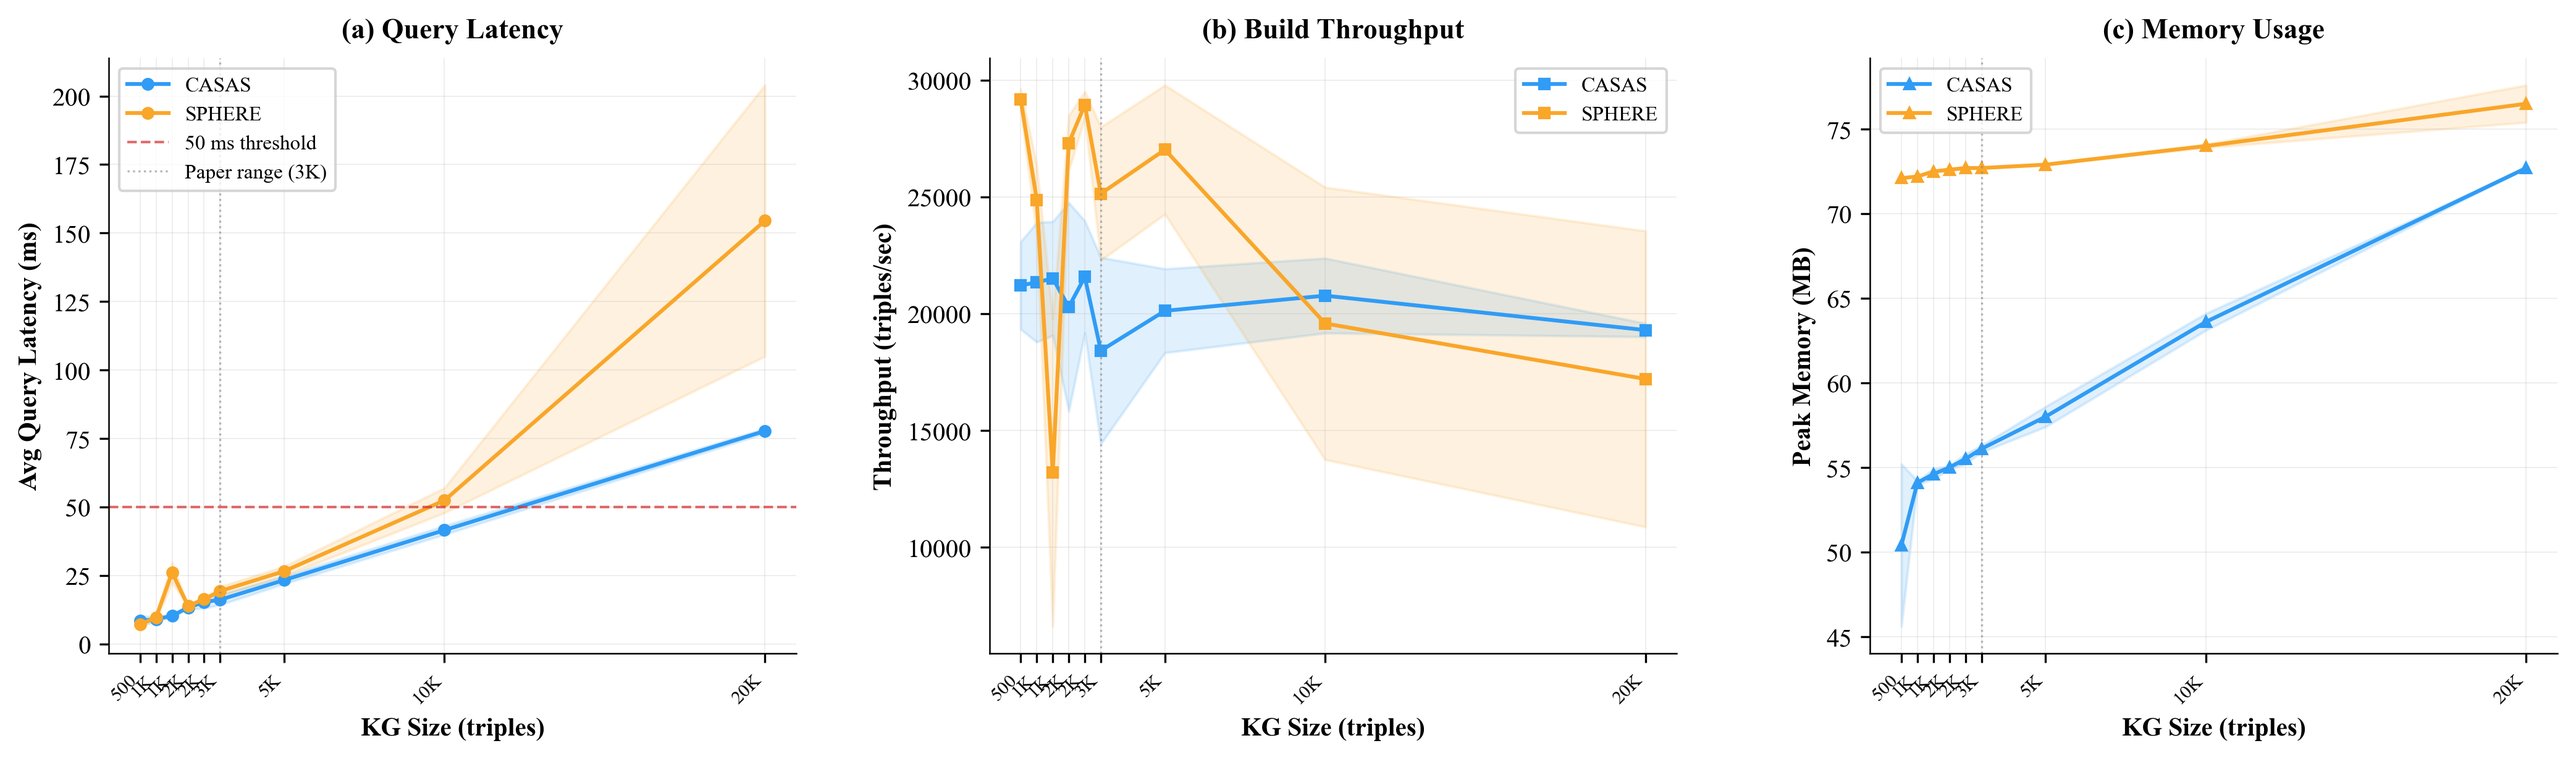
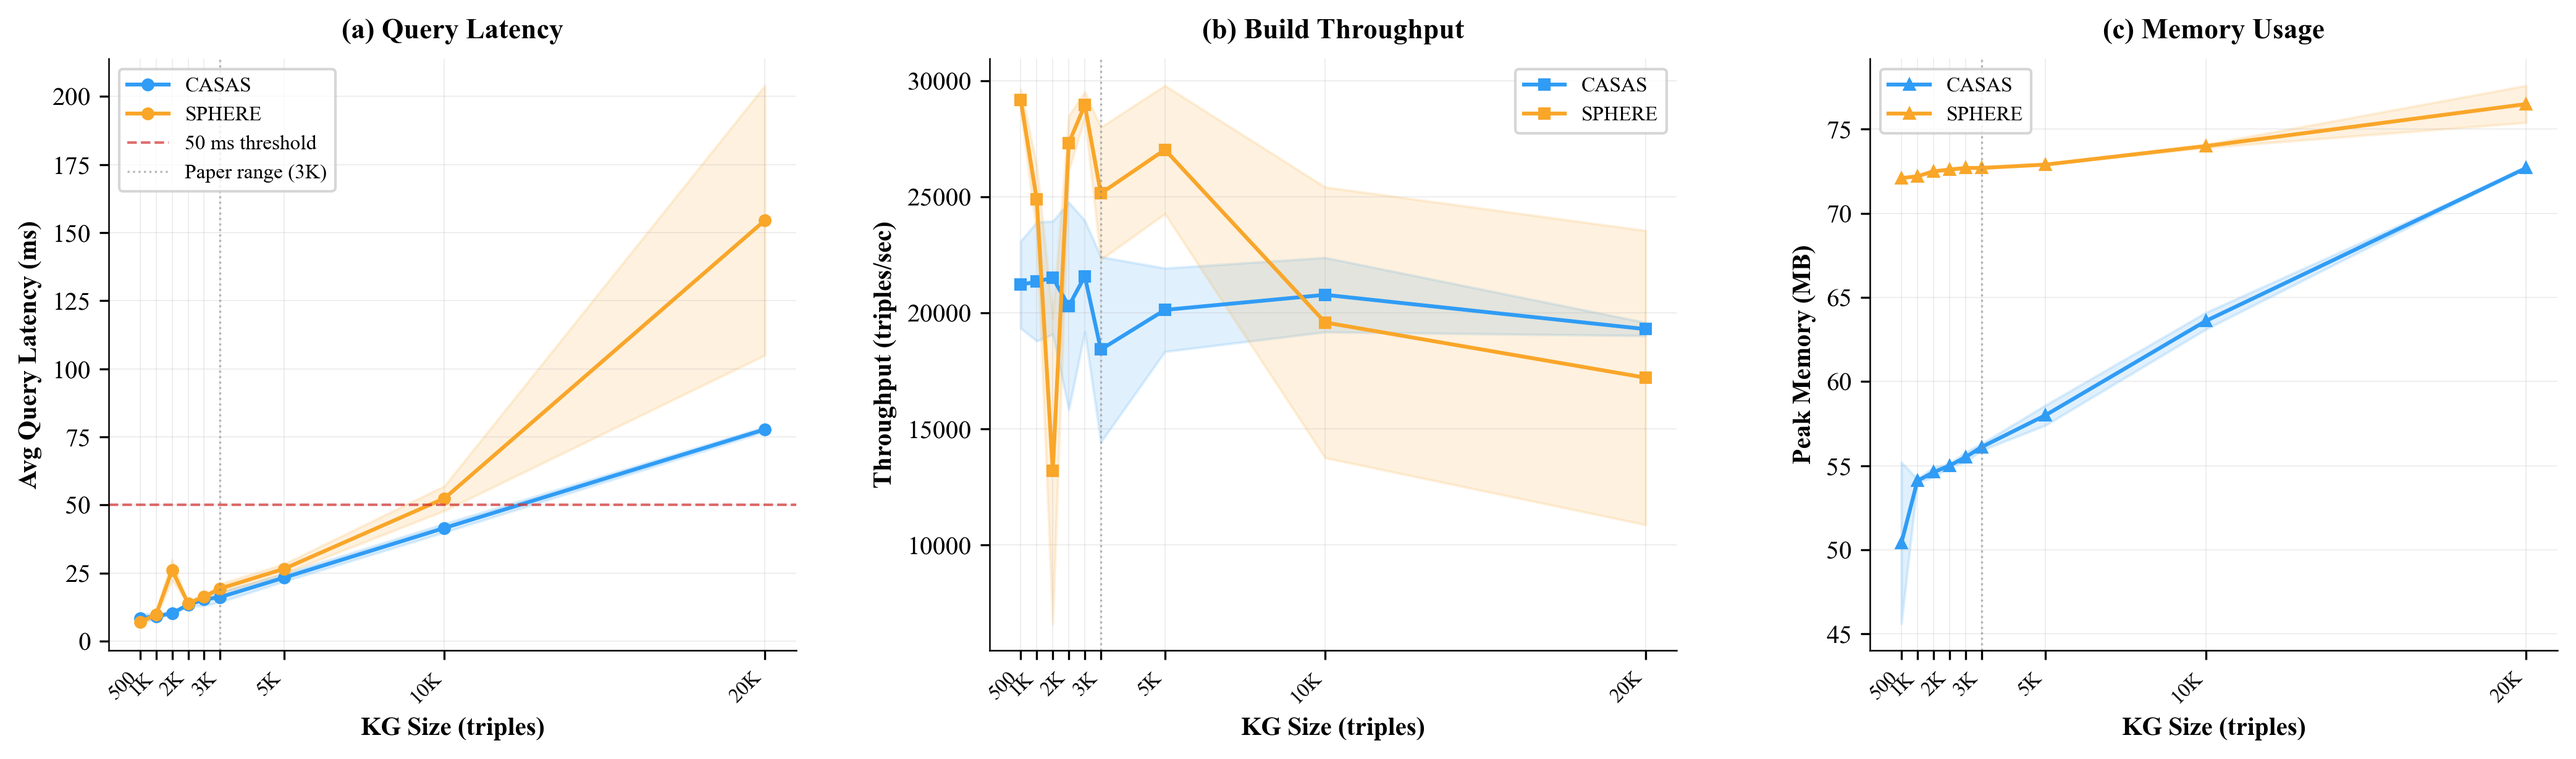
fix: clean up Figure 5 x-axis labels (remove 1.5K/2.5K, add 45-deg rotation)

diff --git a/fig/generate_kg_scalability.py b/fig/generate_kg_scalability.py
@@ -63,9 +63,10 @@ def main() -> int:
     ax.grid(axis="both", alpha=0.25, linewidth=0.4)
     ax.spines["top"].set_visible(False)
     ax.spines["right"].set_visible(False)
+    show = {500, 1000, 2000, 3000, 5000, 10000, 20000}
     ax.set_xticks(sizes)
-    ax.set_xticklabels([f"{s//1000}K" if s >= 1000 else str(s) for s in sizes],
-                       fontsize=7.5, rotation=45, ha="right")
+    ax.set_xticklabels([(f"{s//1000}K" if s >= 1000 else str(s)) if s in show else "" for s in sizes],
+                       fontsize=8, rotation=45, ha="right")
 
     # (b) Throughput vs KG Size
     ax = axes[1]
@@ -82,9 +83,10 @@ def main() -> int:
     ax.grid(axis="both", alpha=0.25, linewidth=0.4)
     ax.spines["top"].set_visible(False)
     ax.spines["right"].set_visible(False)
+    show = {500, 1000, 2000, 3000, 5000, 10000, 20000}
     ax.set_xticks(sizes)
-    ax.set_xticklabels([f"{s//1000}K" if s >= 1000 else str(s) for s in sizes],
-                       fontsize=7.5, rotation=45, ha="right")
+    ax.set_xticklabels([(f"{s//1000}K" if s >= 1000 else str(s)) if s in show else "" for s in sizes],
+                       fontsize=8, rotation=45, ha="right")
 
     # (c) Memory vs KG Size
     ax = axes[2]
@@ -101,9 +103,10 @@ def main() -> int:
     ax.grid(axis="both", alpha=0.25, linewidth=0.4)
     ax.spines["top"].set_visible(False)
     ax.spines["right"].set_visible(False)
+    show = {500, 1000, 2000, 3000, 5000, 10000, 20000}
     ax.set_xticks(sizes)
-    ax.set_xticklabels([f"{s//1000}K" if s >= 1000 else str(s) for s in sizes],
-                       fontsize=7.5, rotation=45, ha="right")
+    ax.set_xticklabels([(f"{s//1000}K" if s >= 1000 else str(s)) if s in show else "" for s in sizes],
+                       fontsize=8, rotation=45, ha="right")
 
     fig.tight_layout(w_pad=3.0)
 
